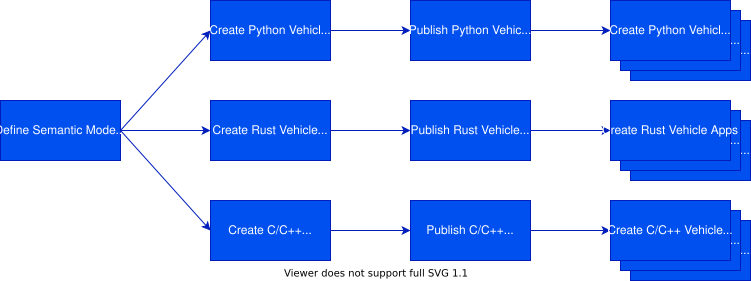
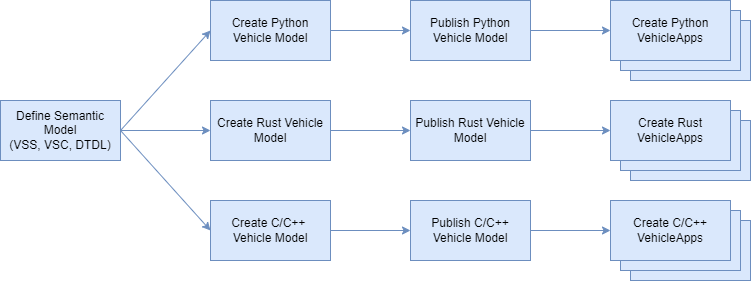
refactoring

diff --git a/content/en/docs/about/development_model/_index.md b/content/en/docs/about/development_model/_index.md
@@ -35,7 +35,7 @@ Next to a Vehicle Apps abstraction, the SDKs are [Middleware](#middleware)-enabl
 
 ### Vehicle Services
 
-`Vehicle Services` provide service interfaces to control actuators or to trigger (complex) actions. E.g. they communicate with the vehicle internals networks like CAN or Ethernet, which are connected to actuators, electronic control units (ECUs) and other vehicle computers (VCs). They may provide a simulation mode to run without a network interface. `Vehicle services` may feed data to the [Data Broker](#data-broker) and may expose gRPC endpoints, which can be invoked by [Vehicle Apps](#vehicle-apps) over a [Vehicle Model](#vehicle-models)
+Vehicle Services provide service interfaces to control actuators or to trigger (complex) actions. E.g. they communicate with the vehicle internals networks like CAN or Ethernet, which are connected to actuators, electronic control units (ECUs) and other vehicle computers (VCs). They may provide a simulation mode to run without a network interface. Vehicle services may feed data to the [Data Broker](#data-broker) and may expose gRPC endpoints, which can be invoked by [Vehicle Apps](#vehicle-apps) over a [Vehicle Model](#vehicle-models)
 
 ### Data Broker
 
@@ -93,12 +93,10 @@ The following aspects are important characteristics for [Vehicle Apps](#vehicle-
 
 ## Development Process
 
-The starting point for developing [Vehicle Apps](#vehicle-apps) is a [Semantic Model](#semantic-models) of the vehicle data and vehicle services. Based on the [Semantic Model](#semantic-models), language-specific [Vehicle Models](#vehicle-models) are generated. [Vehicle Models](#vehicle-models) are then distributed as packages to the respective package manager of the chosen programming language (e.g. pip, cargo, npm, ...).
+The starting point for developing [Vehicle Apps](#vehicle-apps) is a [Semantic Model](#semantic-models) of the vehicle data and vehicle services. Based on the Semantic Model, language-specific [Vehicle Models](#vehicle-models) are generated. Vehicle Models are then distributed as packages to the respective package manager of the chosen programming language (e.g. pip, cargo, npm, ...).
 
-{{< imgproc build_procedure Resize "800x" >}}
-  Architectural diagram of the build process
-{{< /imgproc >}}
+After a Vehicle Model is available for the chosen programming language, the Vehicle App can be developed using the generated Vehicle Model and its SDK.
 
-After a [Vehicle Model](#vehicle-models) is available for the chosen programming language, the [Vehicle App](#vehicle-apps) can be developed using the generated Vehicle Model and its core SDK.
+![Development Process](./build_procedure.png)
 
 ## Further information
